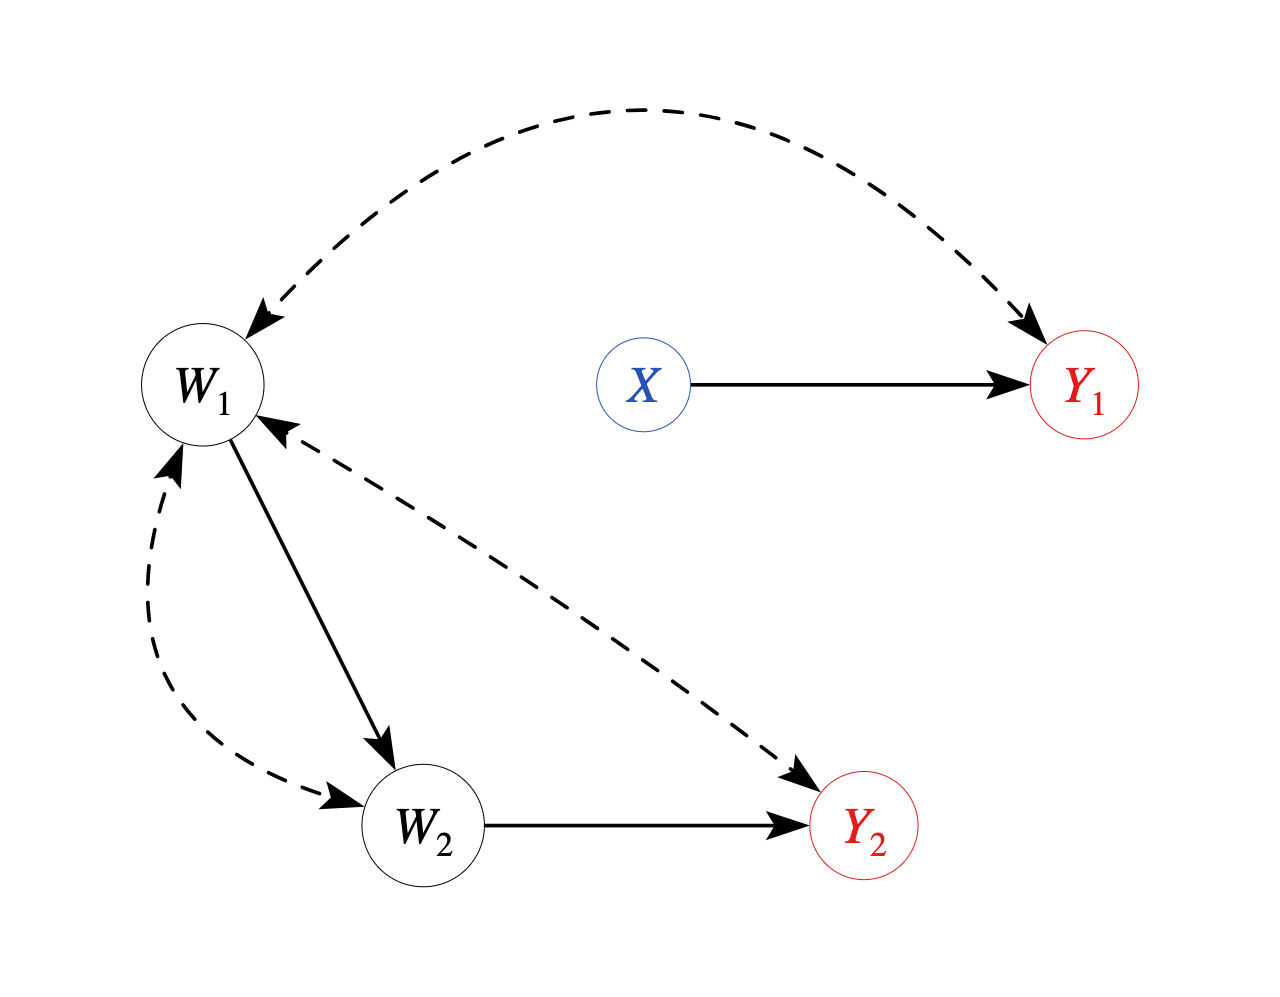
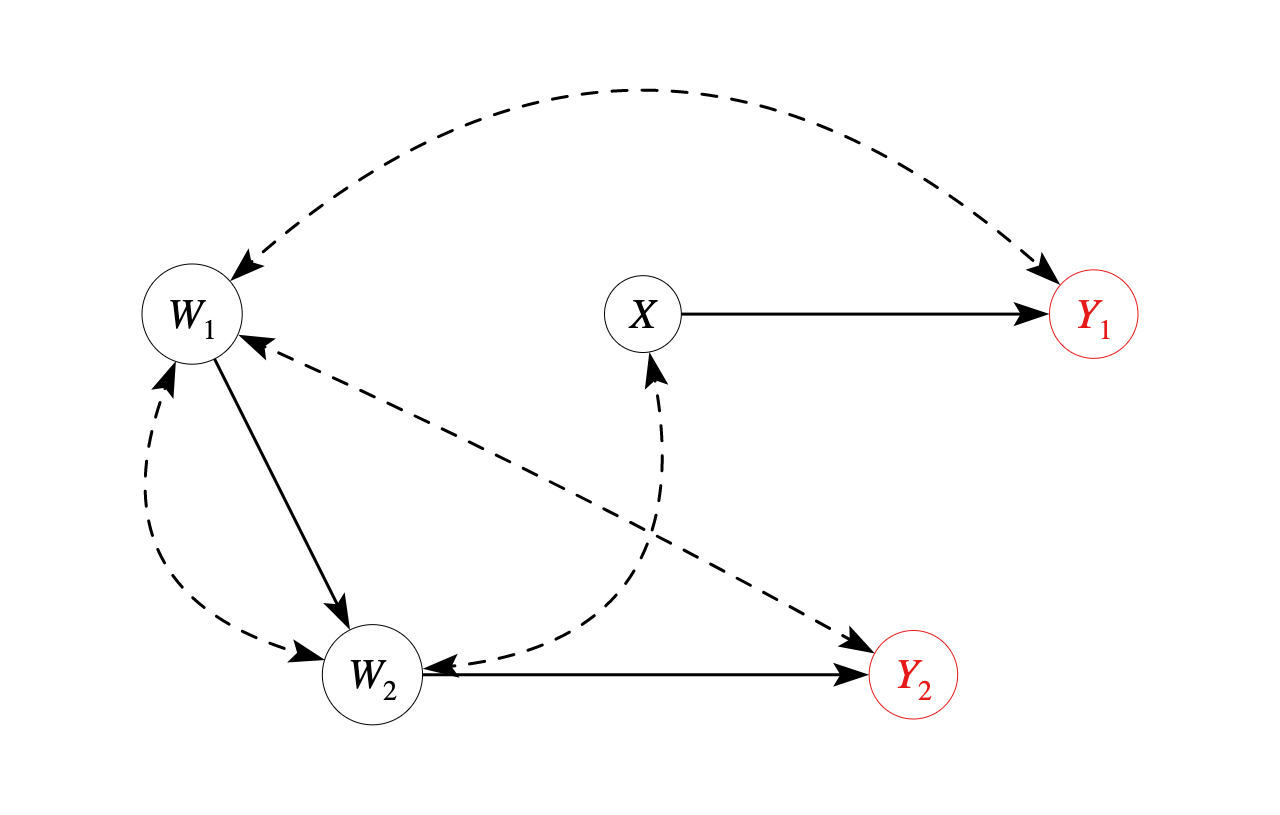
Figure 3b F is now correct

diff --git a/src/y0/dsl.py b/src/y0/dsl.py
@@ -197,6 +197,10 @@ class Variable(Element):
     def to_y0(self) -> str:
         """Output this variable instance as y0 internal DSL code."""
         return self.name
+    
+    def to_json(self) -> str:
+        """Output this variable instance as y0 internal DSL code."""
+        return self.name
 
     def intervene(self, variables: VariableHint) -> CounterfactualVariable:
         """Intervene on this variable with the given variable(s).
@@ -313,6 +317,11 @@ class Intervention(Variable):
         mark = "+" if self.star else "-"
         return f"{mark}{self.name}"
 
+    def to_json(self) -> str:
+        """Output this intervention instance as an abstract syntax tree."""
+        mark = "+" if self.star else "-"
+        return f"{mark}{self.name}"
+
 
 @dataclass(frozen=True, order=True, repr=False)
 class CounterfactualVariable(Variable):
@@ -371,6 +380,19 @@ class CounterfactualVariable(Variable):
             ins = ", ".join(i.to_y0() for i in self.interventions)
             return f"{prefix}{self.name} @ ({ins})"
 
+    def to_json(self) -> str:
+        """Output this counterfactual variable instance as an abstract syntax tree."""
+        if self.star is None:
+            prefix = ""
+        elif self.star:
+            prefix = "+"
+        else:
+            prefix = "-"
+        if len(self.interventions) == 1:
+            return f"{prefix}{self.name} @ {self.interventions[0].to_json()}"
+        else:
+            ins = ", ".join(i.to_json() for i in self.interventions)
+            return f"{prefix}{self.name} @ ({ins})"
     def is_event(self) -> bool:
         """Return if the counterfactual variable has a value."""
         return self.star is not None

diff --git a/tests/test_dedri.py b/tests/test_dedri.py
@@ -47,4 +47,19 @@ class TestDeDri(unittest.TestCase):
 
     def test_to_json(self):
         """Tests for serialization to JSON abstract syntax tree"""
+        a = Interval("a", 1, 10)
+        b = Interval("b", 11, 20)
+        c = Interval("c", 5, 15)
+        d = Interval("d", 10, 11)
+        e = Interval("e", 1, 20)
+        f = Interval("f", 1, 10)
+
+        self.assertEqual(a.to_json(), {"name": "a", "start": 1, "end": 10})
+        self.assertEqual(b.to_json(), {"name": "b", "start": 11, "end": 20})
+        self.assertEqual(c.to_json(), {"name": "c", "start": 5, "end": 15})
+        self.assertEqual(d.to_json(), {"name": "d", "start": 10, "end": 11})
+        self.assertEqual(e.to_json(), {"name": "e", "start": 1, "end": 20})
+        self.assertEqual(f.to_json(), {"name": "f", "start": 1, "end": 10})
+        
+
         
